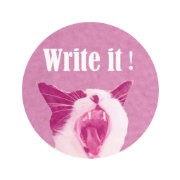
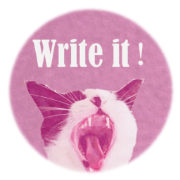
Deploying to main from @ i-lovet/blog-source@b26fc80e32479c9424c3710c87b39a4237b6a352 🚀

diff --git a/index.html b/index.html
@@ -5,7 +5,7 @@
 <span class="relative block icon"><svg aria-hidden="true" focusable="false" data-prefix="fas" data-icon="search" class="svg-inline--fa fa-search fa-w-16" role="img" viewBox="0 0 512 512"><path fill="currentcolor" d="M505 442.7 405.3 343c-4.5-4.5-10.6-7-17-7H372c27.6-35.3 44-79.7 44-128C416 93.1 322.9.0 208 0S0 93.1.0 208s93.1 208 208 208c48.3.0 92.7-16.4 128-44v16.3c0 6.4 2.5 12.5 7 17l99.7 99.7c9.4 9.4 24.6 9.4 33.9.0l28.3-28.3c9.4-9.4 9.4-24.6.1-34zM208 336c-70.7.0-128-57.2-128-128 0-70.7 57.2-128 128-128 70.7.0 128 57.2 128 128 0 70.7-57.2 128-128 128z"/></svg>
 </span></button>
 <button id=appearance-switcher-mobile aria-label="Dark mode switcher" type=button class="text-base hover:text-primary-600 dark:hover:text-primary-400 ltr:mr-1 rtl:ml-1"><div class="flex items-center justify-center dark:hidden"><span class="relative block icon"><svg viewBox="0 0 512 512"><path fill="currentcolor" d="M32 256C32 132.2 132.3 32 255.8 32c11.36.0 29.7 1.668 40.9 3.746 9.616 1.777 11.75 14.63 3.279 19.44C245 86.5 211.2 144.6 211.2 207.8c0 109.7 99.71 193 208.3 172.3 9.561-1.805 16.28 9.324 10.11 16.95C387.9 448.6 324.8 480 255.8 480 132.1 480 32 379.6 32 256z"/></svg></span></div><div class="items-center justify-center hidden dark:flex"><span class="relative block icon"><svg viewBox="0 0 512 512"><path fill="currentcolor" d="M256 159.1c-53.02.0-95.1 42.98-95.1 95.1s41.2 96.9 95.1 96.9 95.1-42.98 95.1-95.1S309 159.1 256 159.1zM509.3 347l-63.2-91.9 63.15-91.01c6.332-9.125 1.104-21.74-9.826-23.72l-109-19.7-19.7-109c-1.975-10.93-14.59-16.16-23.72-9.824L256 65.89 164.1 2.736c-9.125-6.332-21.74-1.107-23.72 9.824L121.6 121.6 12.56 141.3C1.633 143.2-3.596 155.9 2.736 164.1L65.89 256 2.74 347.01c-6.332 9.125-1.105 21.74 9.824 23.72l109 19.7 19.7 109c1.975 10.93 14.59 16.16 23.72 9.824L256 446.1l91.01 63.15c9.127 6.334 21.75 1.107 23.72-9.822l19.7-109 109-19.7C510.4 368.8 515.6 356.1 509.3 347zM256 383.1c-70.69.0-127.1-57.31-127.1-127.1.0-70.69 57.31-127.1 127.1-127.1S383.1 186.2 383.1 256c0 70.7-56.4 127.1-127.1 127.1z"/></svg></span></div></button></div></div><div class="-my-2 md:hidden"><label id=menu-button class=block></div></label></div></div><div class="relative flex flex-col grow"><main id=main-content class=grow><article class="h-full
-flex flex-col items-center justify-center text-center"><header class="relative px-1 py-1 flex flex-col items-center mb-3"><img class="mb-2 rounded-full h-36 w-36" width=144 height=144 alt=大灰狼 src=/img/me_hu_a30970931e711b49.png><h1 class="text-4xl font-extrabold">大灰狼</h1><h2 class="text-xl text-neutral-500 dark:text-neutral-400">I&rsquo;m only human</h2><div class="mt-1 text-2xl"><div class="flex flex-wrap text-neutral-400 dark:text-neutral-500"><a class="px-1 hover:text-primary-700 dark:hover:text-primary-400" href=mailto:hubaba0520@outlook.com target=_blank aria-label=Email rel="me noopener noreferrer"><span class="inline-block align-text-bottom"><span class="relative block icon"><svg viewBox="0 0 512 512"><path fill="currentcolor" d="M207.8 20.73c-93.45 18.32-168.7 93.66-187 187.1-27.64 140.9 68.65 266.2 199.1 285.1 19.01 2.888 36.17-12.26 36.17-31.49l1e-4-.6631c0-15.74-11.44-28.88-26.84-31.24-84.35-12.98-149.2-86.13-149.2-174.2.0-102.9 88.61-185.5 193.4-175.4 91.54 8.869 158.6 91.25 158.6 183.2v16.16c0 22.09-17.94 40.05-40 40.05s-40.01-17.96-40.01-40.05v-120.1c0-8.847-7.161-16.02-16.01-16.02l-31.98.0036c-7.299.0-13.2 4.992-15.12 11.68-24.85-12.15-54.24-16.38-86.06-5.106-38.75 13.73-68.12 48.91-73.72 89.64-9.483 69.01 43.81 128 110.9 128 26.44.0 50.43-9.544 69.59-24.88 24 31.3 65.23 48.69 109.4 37.49C465.2 369.3 496 324.1 495.1 277.2V256.3c0-149.2-133.9-265.632-287.3-235.57zM239.1 304.3c-26.47.0-48-21.56-48-48.05s21.53-48.05 48-48.05 48 21.56 48 48.05-20.6 48.05-48 48.05z"/></svg></span></span></a></div></div></header><section class="prose dark:prose-invert"></section></article><section></section></main><footer id=site-footer class="py-10 print:hidden"><div class="flex items-center justify-between"><p class="text-sm text-neutral-500 dark:text-neutral-400">&copy;
+flex flex-col items-center justify-center text-center"><header class="relative px-1 py-1 flex flex-col items-center mb-3"><img class="mb-2 rounded-full h-36 w-36" width=144 height=144 alt=大灰狼 src=/img/me_hu_db10cd2666a80aa7.png><h1 class="text-4xl font-extrabold">大灰狼</h1><h2 class="text-xl text-neutral-500 dark:text-neutral-400">I&rsquo;m only human</h2><div class="mt-1 text-2xl"><div class="flex flex-wrap text-neutral-400 dark:text-neutral-500"><a class="px-1 hover:text-primary-700 dark:hover:text-primary-400" href=mailto:hubaba0520@outlook.com target=_blank aria-label=Email rel="me noopener noreferrer"><span class="inline-block align-text-bottom"><span class="relative block icon"><svg viewBox="0 0 512 512"><path fill="currentcolor" d="M207.8 20.73c-93.45 18.32-168.7 93.66-187 187.1-27.64 140.9 68.65 266.2 199.1 285.1 19.01 2.888 36.17-12.26 36.17-31.49l1e-4-.6631c0-15.74-11.44-28.88-26.84-31.24-84.35-12.98-149.2-86.13-149.2-174.2.0-102.9 88.61-185.5 193.4-175.4 91.54 8.869 158.6 91.25 158.6 183.2v16.16c0 22.09-17.94 40.05-40 40.05s-40.01-17.96-40.01-40.05v-120.1c0-8.847-7.161-16.02-16.01-16.02l-31.98.0036c-7.299.0-13.2 4.992-15.12 11.68-24.85-12.15-54.24-16.38-86.06-5.106-38.75 13.73-68.12 48.91-73.72 89.64-9.483 69.01 43.81 128 110.9 128 26.44.0 50.43-9.544 69.59-24.88 24 31.3 65.23 48.69 109.4 37.49C465.2 369.3 496 324.1 495.1 277.2V256.3c0-149.2-133.9-265.632-287.3-235.57zM239.1 304.3c-26.47.0-48-21.56-48-48.05s21.53-48.05 48-48.05 48 21.56 48 48.05-20.6 48.05-48 48.05z"/></svg></span></span></a></div></div></header><section class="prose dark:prose-invert"></section></article><section></section></main><footer id=site-footer class="py-10 print:hidden"><div class="flex items-center justify-between"><p class="text-sm text-neutral-500 dark:text-neutral-400">&copy;
 2025
 大灰狼</p><p class="text-xs text-neutral-500 dark:text-neutral-400">由 <a class="hover:underline hover:decoration-primary-400 hover:text-primary-500" href=https://gohugo.io/ target=_blank rel="noopener noreferrer">Hugo</a> & <a class="hover:underline hover:decoration-primary-400 hover:text-primary-500" href=https://blowfish.page/ target=_blank rel="noopener noreferrer">Blowfish</a> 强力驱动</p></div><script>mediumZoom(document.querySelectorAll("img:not(.nozoom)"),{margin:24,background:"rgba(0,0,0,0.5)",scrollOffset:0})</script><script type=text/javascript src=/js/process.min.ee03488f19c93c2efb199e2e3014ea5f3cb2ce7d45154adb3399a158cac27ca52831db249ede5bb602700ef87eb02434139de0858af1818ab0fb4182472204a4.js integrity="sha512-7gNIjxnJPC77GZ4uMBTqXzyyzn1FFUrbM5mhWMrCfKUoMdsknt5btgJwDvh+sCQ0E53ghYrxgYqw+0GCRyIEpA=="></script></footer><div id=search-wrapper class="invisible fixed inset-0 flex h-screen w-screen cursor-default flex-col bg-neutral-500/50 p-4 backdrop-blur-sm dark:bg-neutral-900/50 sm:p-6 md:p-[10vh] lg:p-[12vh]" data-url=https://i-lovet.github.io/ style=z-index:500><div id=search-modal class="flex flex-col w-full max-w-3xl min-h-0 mx-auto border rounded-md shadow-lg top-20 border-neutral-200 bg-neutral dark:border-neutral-700 dark:bg-neutral-800"><header class="relative z-10 flex items-center justify-between flex-none px-2"><form class="flex items-center flex-auto min-w-0"><div class="flex items-center justify-center w-8 h-8 text-neutral-400"><span class="relative block icon"><svg aria-hidden="true" focusable="false" data-prefix="fas" data-icon="search" class="svg-inline--fa fa-search fa-w-16" role="img" viewBox="0 0 512 512"><path fill="currentcolor" d="M505 442.7 405.3 343c-4.5-4.5-10.6-7-17-7H372c27.6-35.3 44-79.7 44-128C416 93.1 322.9.0 208 0S0 93.1.0 208s93.1 208 208 208c48.3.0 92.7-16.4 128-44v16.3c0 6.4 2.5 12.5 7 17l99.7 99.7c9.4 9.4 24.6 9.4 33.9.0l28.3-28.3c9.4-9.4 9.4-24.6.1-34zM208 336c-70.7.0-128-57.2-128-128 0-70.7 57.2-128 128-128 70.7.0 128 57.2 128 128 0 70.7-57.2 128-128 128z"/></svg></span></div><input type=search id=search-query class="flex flex-auto h-12 mx-1 bg-transparent appearance-none focus:outline-dotted focus:outline-2 focus:outline-transparent" placeholder=搜索 tabindex=0></form><button id=close-search-button class="flex items-center justify-center w-8 h-8 text-neutral-700 hover:text-primary-600 dark:text-neutral dark:hover:text-primary-400" title="关闭 (Esc)">
 <span class="relative block icon"><svg viewBox="0 0 320 512"><path fill="currentcolor" d="M310.6 361.4c12.5 12.5 12.5 32.75.0 45.25C304.4 412.9 296.2 416 288 416s-16.38-3.125-22.62-9.375L160 301.3 54.63 406.6C48.38 412.9 40.19 416 32 416S15.63 412.9 9.375 406.6c-12.5-12.5-12.5-32.75.0-45.25l105.4-105.4L9.375 150.6c-12.5-12.5-12.5-32.75.0-45.25s32.75-12.5 45.25.0L160 210.8l105.4-105.4c12.5-12.5 32.75-12.5 45.25.0s12.5 32.75.0 45.25l-105.4 105.4L310.6 361.4z"/></svg></span></button></header><section class="flex-auto px-2 overflow-auto"><ul id=search-results></ul></section></div></div></div></body></html>

diff --git a/en/index.html b/en/index.html
@@ -5,7 +5,7 @@
 <span class="relative block icon"><svg aria-hidden="true" focusable="false" data-prefix="fas" data-icon="search" class="svg-inline--fa fa-search fa-w-16" role="img" viewBox="0 0 512 512"><path fill="currentcolor" d="M505 442.7 405.3 343c-4.5-4.5-10.6-7-17-7H372c27.6-35.3 44-79.7 44-128C416 93.1 322.9.0 208 0S0 93.1.0 208s93.1 208 208 208c48.3.0 92.7-16.4 128-44v16.3c0 6.4 2.5 12.5 7 17l99.7 99.7c9.4 9.4 24.6 9.4 33.9.0l28.3-28.3c9.4-9.4 9.4-24.6.1-34zM208 336c-70.7.0-128-57.2-128-128 0-70.7 57.2-128 128-128 70.7.0 128 57.2 128 128 0 70.7-57.2 128-128 128z"/></svg>
 </span></button>
 <button id=appearance-switcher-mobile aria-label="Dark mode switcher" type=button class="text-base hover:text-primary-600 dark:hover:text-primary-400 ltr:mr-1 rtl:ml-1"><div class="flex items-center justify-center dark:hidden"><span class="relative block icon"><svg viewBox="0 0 512 512"><path fill="currentcolor" d="M32 256C32 132.2 132.3 32 255.8 32c11.36.0 29.7 1.668 40.9 3.746 9.616 1.777 11.75 14.63 3.279 19.44C245 86.5 211.2 144.6 211.2 207.8c0 109.7 99.71 193 208.3 172.3 9.561-1.805 16.28 9.324 10.11 16.95C387.9 448.6 324.8 480 255.8 480 132.1 480 32 379.6 32 256z"/></svg></span></div><div class="items-center justify-center hidden dark:flex"><span class="relative block icon"><svg viewBox="0 0 512 512"><path fill="currentcolor" d="M256 159.1c-53.02.0-95.1 42.98-95.1 95.1s41.2 96.9 95.1 96.9 95.1-42.98 95.1-95.1S309 159.1 256 159.1zM509.3 347l-63.2-91.9 63.15-91.01c6.332-9.125 1.104-21.74-9.826-23.72l-109-19.7-19.7-109c-1.975-10.93-14.59-16.16-23.72-9.824L256 65.89 164.1 2.736c-9.125-6.332-21.74-1.107-23.72 9.824L121.6 121.6 12.56 141.3C1.633 143.2-3.596 155.9 2.736 164.1L65.89 256 2.74 347.01c-6.332 9.125-1.105 21.74 9.824 23.72l109 19.7 19.7 109c1.975 10.93 14.59 16.16 23.72 9.824L256 446.1l91.01 63.15c9.127 6.334 21.75 1.107 23.72-9.822l19.7-109 109-19.7C510.4 368.8 515.6 356.1 509.3 347zM256 383.1c-70.69.0-127.1-57.31-127.1-127.1.0-70.69 57.31-127.1 127.1-127.1S383.1 186.2 383.1 256c0 70.7-56.4 127.1-127.1 127.1z"/></svg></span></div></button></div></div><div class="-my-2 md:hidden"><label id=menu-button class=block></div></label></div></div><div class="relative flex flex-col grow"><main id=main-content class=grow><article class="h-full
-flex flex-col items-center justify-center text-center"><header class="relative px-1 py-1 flex flex-col items-center mb-3"><img class="mb-2 rounded-full h-36 w-36" width=144 height=144 alt=i-lovet src=/img/me_hu_a30970931e711b49.png><h1 class="text-4xl font-extrabold">i-lovet</h1><h2 class="text-xl text-neutral-500 dark:text-neutral-400">I&rsquo;m only human</h2><div class="mt-1 text-2xl"><div class="flex flex-wrap text-neutral-400 dark:text-neutral-500"><a class="px-1 hover:text-primary-700 dark:hover:text-primary-400" href=mailto:hubaba0520@outlook.com target=_blank aria-label=Email rel="me noopener noreferrer"><span class="inline-block align-text-bottom"><span class="relative block icon"><svg viewBox="0 0 512 512"><path fill="currentcolor" d="M207.8 20.73c-93.45 18.32-168.7 93.66-187 187.1-27.64 140.9 68.65 266.2 199.1 285.1 19.01 2.888 36.17-12.26 36.17-31.49l1e-4-.6631c0-15.74-11.44-28.88-26.84-31.24-84.35-12.98-149.2-86.13-149.2-174.2.0-102.9 88.61-185.5 193.4-175.4 91.54 8.869 158.6 91.25 158.6 183.2v16.16c0 22.09-17.94 40.05-40 40.05s-40.01-17.96-40.01-40.05v-120.1c0-8.847-7.161-16.02-16.01-16.02l-31.98.0036c-7.299.0-13.2 4.992-15.12 11.68-24.85-12.15-54.24-16.38-86.06-5.106-38.75 13.73-68.12 48.91-73.72 89.64-9.483 69.01 43.81 128 110.9 128 26.44.0 50.43-9.544 69.59-24.88 24 31.3 65.23 48.69 109.4 37.49C465.2 369.3 496 324.1 495.1 277.2V256.3c0-149.2-133.9-265.632-287.3-235.57zM239.1 304.3c-26.47.0-48-21.56-48-48.05s21.53-48.05 48-48.05 48 21.56 48 48.05-20.6 48.05-48 48.05z"/></svg></span></span></a></div></div></header><section class="prose dark:prose-invert"></section></article><section></section></main><footer id=site-footer class="py-10 print:hidden"><div class="flex items-center justify-between"><p class="text-sm text-neutral-500 dark:text-neutral-400">&copy;
+flex flex-col items-center justify-center text-center"><header class="relative px-1 py-1 flex flex-col items-center mb-3"><img class="mb-2 rounded-full h-36 w-36" width=144 height=144 alt=i-lovet src=/img/me_hu_db10cd2666a80aa7.png><h1 class="text-4xl font-extrabold">i-lovet</h1><h2 class="text-xl text-neutral-500 dark:text-neutral-400">I&rsquo;m only human</h2><div class="mt-1 text-2xl"><div class="flex flex-wrap text-neutral-400 dark:text-neutral-500"><a class="px-1 hover:text-primary-700 dark:hover:text-primary-400" href=mailto:hubaba0520@outlook.com target=_blank aria-label=Email rel="me noopener noreferrer"><span class="inline-block align-text-bottom"><span class="relative block icon"><svg viewBox="0 0 512 512"><path fill="currentcolor" d="M207.8 20.73c-93.45 18.32-168.7 93.66-187 187.1-27.64 140.9 68.65 266.2 199.1 285.1 19.01 2.888 36.17-12.26 36.17-31.49l1e-4-.6631c0-15.74-11.44-28.88-26.84-31.24-84.35-12.98-149.2-86.13-149.2-174.2.0-102.9 88.61-185.5 193.4-175.4 91.54 8.869 158.6 91.25 158.6 183.2v16.16c0 22.09-17.94 40.05-40 40.05s-40.01-17.96-40.01-40.05v-120.1c0-8.847-7.161-16.02-16.01-16.02l-31.98.0036c-7.299.0-13.2 4.992-15.12 11.68-24.85-12.15-54.24-16.38-86.06-5.106-38.75 13.73-68.12 48.91-73.72 89.64-9.483 69.01 43.81 128 110.9 128 26.44.0 50.43-9.544 69.59-24.88 24 31.3 65.23 48.69 109.4 37.49C465.2 369.3 496 324.1 495.1 277.2V256.3c0-149.2-133.9-265.632-287.3-235.57zM239.1 304.3c-26.47.0-48-21.56-48-48.05s21.53-48.05 48-48.05 48 21.56 48 48.05-20.6 48.05-48 48.05z"/></svg></span></span></a></div></div></header><section class="prose dark:prose-invert"></section></article><section></section></main><footer id=site-footer class="py-10 print:hidden"><div class="flex items-center justify-between"><p class="text-sm text-neutral-500 dark:text-neutral-400">&copy;
 2025
 i-lovet</p><p class="text-xs text-neutral-500 dark:text-neutral-400">Powered by <a class="hover:underline hover:decoration-primary-400 hover:text-primary-500" href=https://gohugo.io/ target=_blank rel="noopener noreferrer">Hugo</a> & <a class="hover:underline hover:decoration-primary-400 hover:text-primary-500" href=https://blowfish.page/ target=_blank rel="noopener noreferrer">Blowfish</a></p></div><script>mediumZoom(document.querySelectorAll("img:not(.nozoom)"),{margin:24,background:"rgba(0,0,0,0.5)",scrollOffset:0})</script><script type=text/javascript src=/js/process.min.ee03488f19c93c2efb199e2e3014ea5f3cb2ce7d45154adb3399a158cac27ca52831db249ede5bb602700ef87eb02434139de0858af1818ab0fb4182472204a4.js integrity="sha512-7gNIjxnJPC77GZ4uMBTqXzyyzn1FFUrbM5mhWMrCfKUoMdsknt5btgJwDvh+sCQ0E53ghYrxgYqw+0GCRyIEpA=="></script></footer><div id=search-wrapper class="invisible fixed inset-0 flex h-screen w-screen cursor-default flex-col bg-neutral-500/50 p-4 backdrop-blur-sm dark:bg-neutral-900/50 sm:p-6 md:p-[10vh] lg:p-[12vh]" data-url=https://i-lovet.github.io/en/ style=z-index:500><div id=search-modal class="flex flex-col w-full max-w-3xl min-h-0 mx-auto border rounded-md shadow-lg top-20 border-neutral-200 bg-neutral dark:border-neutral-700 dark:bg-neutral-800"><header class="relative z-10 flex items-center justify-between flex-none px-2"><form class="flex items-center flex-auto min-w-0"><div class="flex items-center justify-center w-8 h-8 text-neutral-400"><span class="relative block icon"><svg aria-hidden="true" focusable="false" data-prefix="fas" data-icon="search" class="svg-inline--fa fa-search fa-w-16" role="img" viewBox="0 0 512 512"><path fill="currentcolor" d="M505 442.7 405.3 343c-4.5-4.5-10.6-7-17-7H372c27.6-35.3 44-79.7 44-128C416 93.1 322.9.0 208 0S0 93.1.0 208s93.1 208 208 208c48.3.0 92.7-16.4 128-44v16.3c0 6.4 2.5 12.5 7 17l99.7 99.7c9.4 9.4 24.6 9.4 33.9.0l28.3-28.3c9.4-9.4 9.4-24.6.1-34zM208 336c-70.7.0-128-57.2-128-128 0-70.7 57.2-128 128-128 70.7.0 128 57.2 128 128 0 70.7-57.2 128-128 128z"/></svg></span></div><input type=search id=search-query class="flex flex-auto h-12 mx-1 bg-transparent appearance-none focus:outline-dotted focus:outline-2 focus:outline-transparent" placeholder=Search tabindex=0></form><button id=close-search-button class="flex items-center justify-center w-8 h-8 text-neutral-700 hover:text-primary-600 dark:text-neutral dark:hover:text-primary-400" title="Close (Esc)">
 <span class="relative block icon"><svg viewBox="0 0 320 512"><path fill="currentcolor" d="M310.6 361.4c12.5 12.5 12.5 32.75.0 45.25C304.4 412.9 296.2 416 288 416s-16.38-3.125-22.62-9.375L160 301.3 54.63 406.6C48.38 412.9 40.19 416 32 416S15.63 412.9 9.375 406.6c-12.5-12.5-12.5-32.75.0-45.25l105.4-105.4L9.375 150.6c-12.5-12.5-12.5-32.75.0-45.25s32.75-12.5 45.25.0L160 210.8l105.4-105.4c12.5-12.5 32.75-12.5 45.25.0s12.5 32.75.0 45.25l-105.4 105.4L310.6 361.4z"/></svg></span></button></header><section class="flex-auto px-2 overflow-auto"><ul id=search-results></ul></section></div></div></div></body></html>
